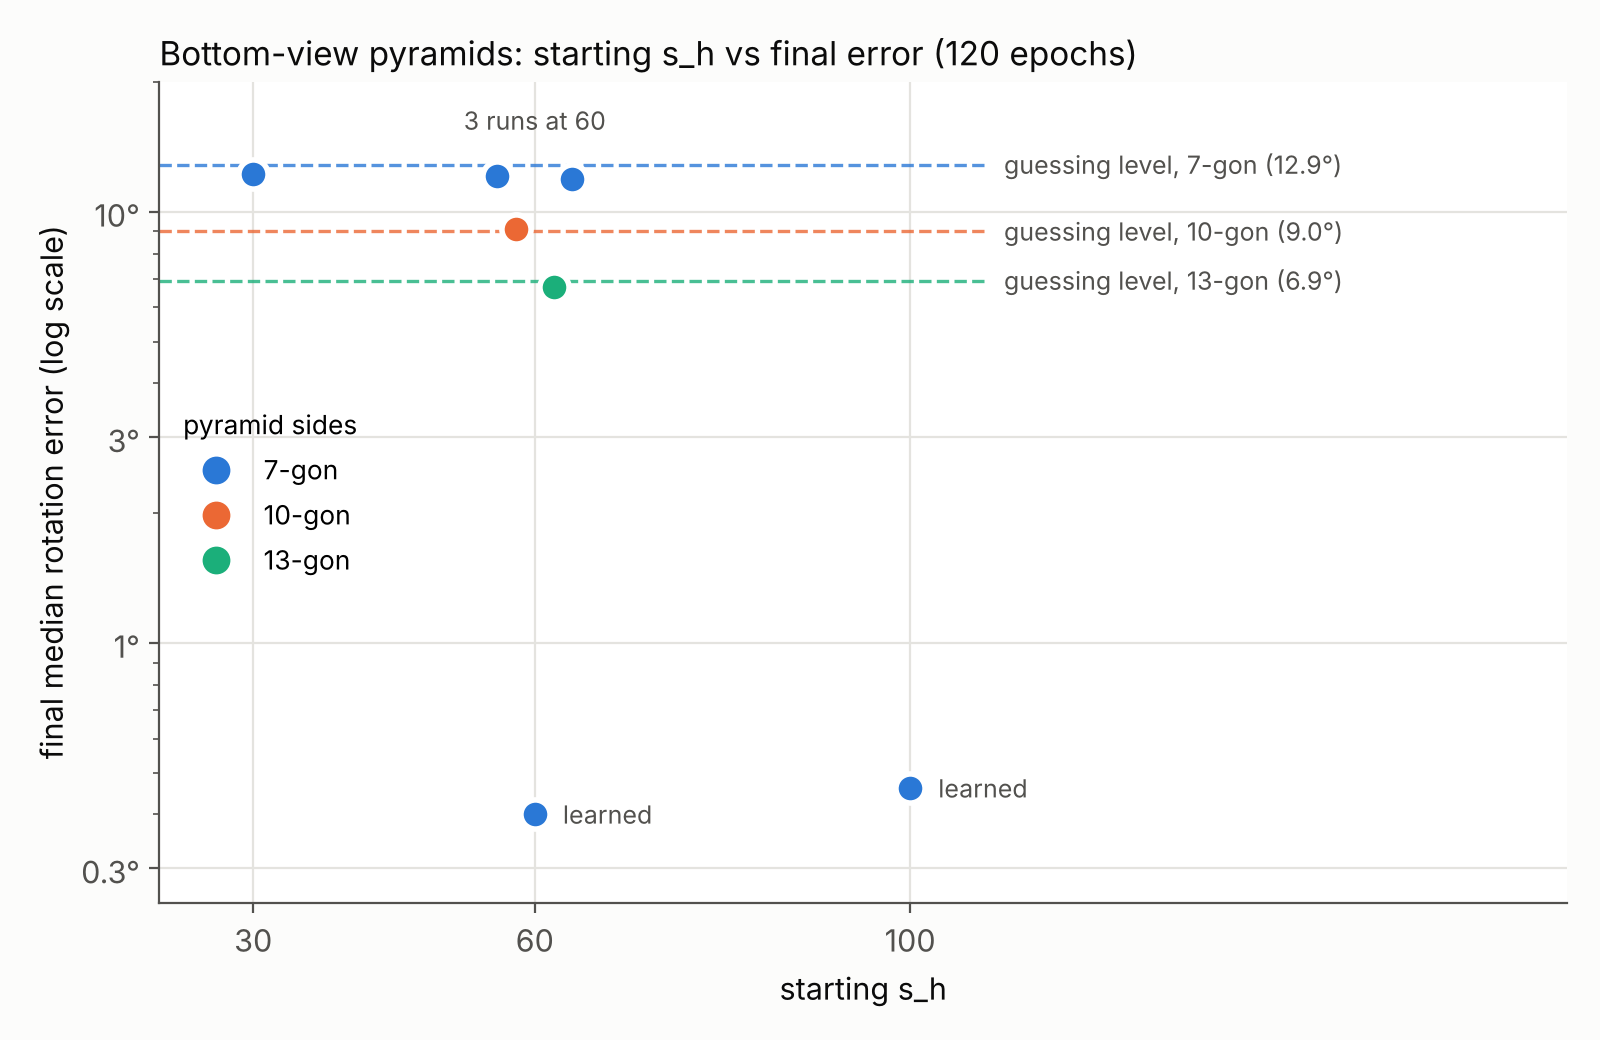
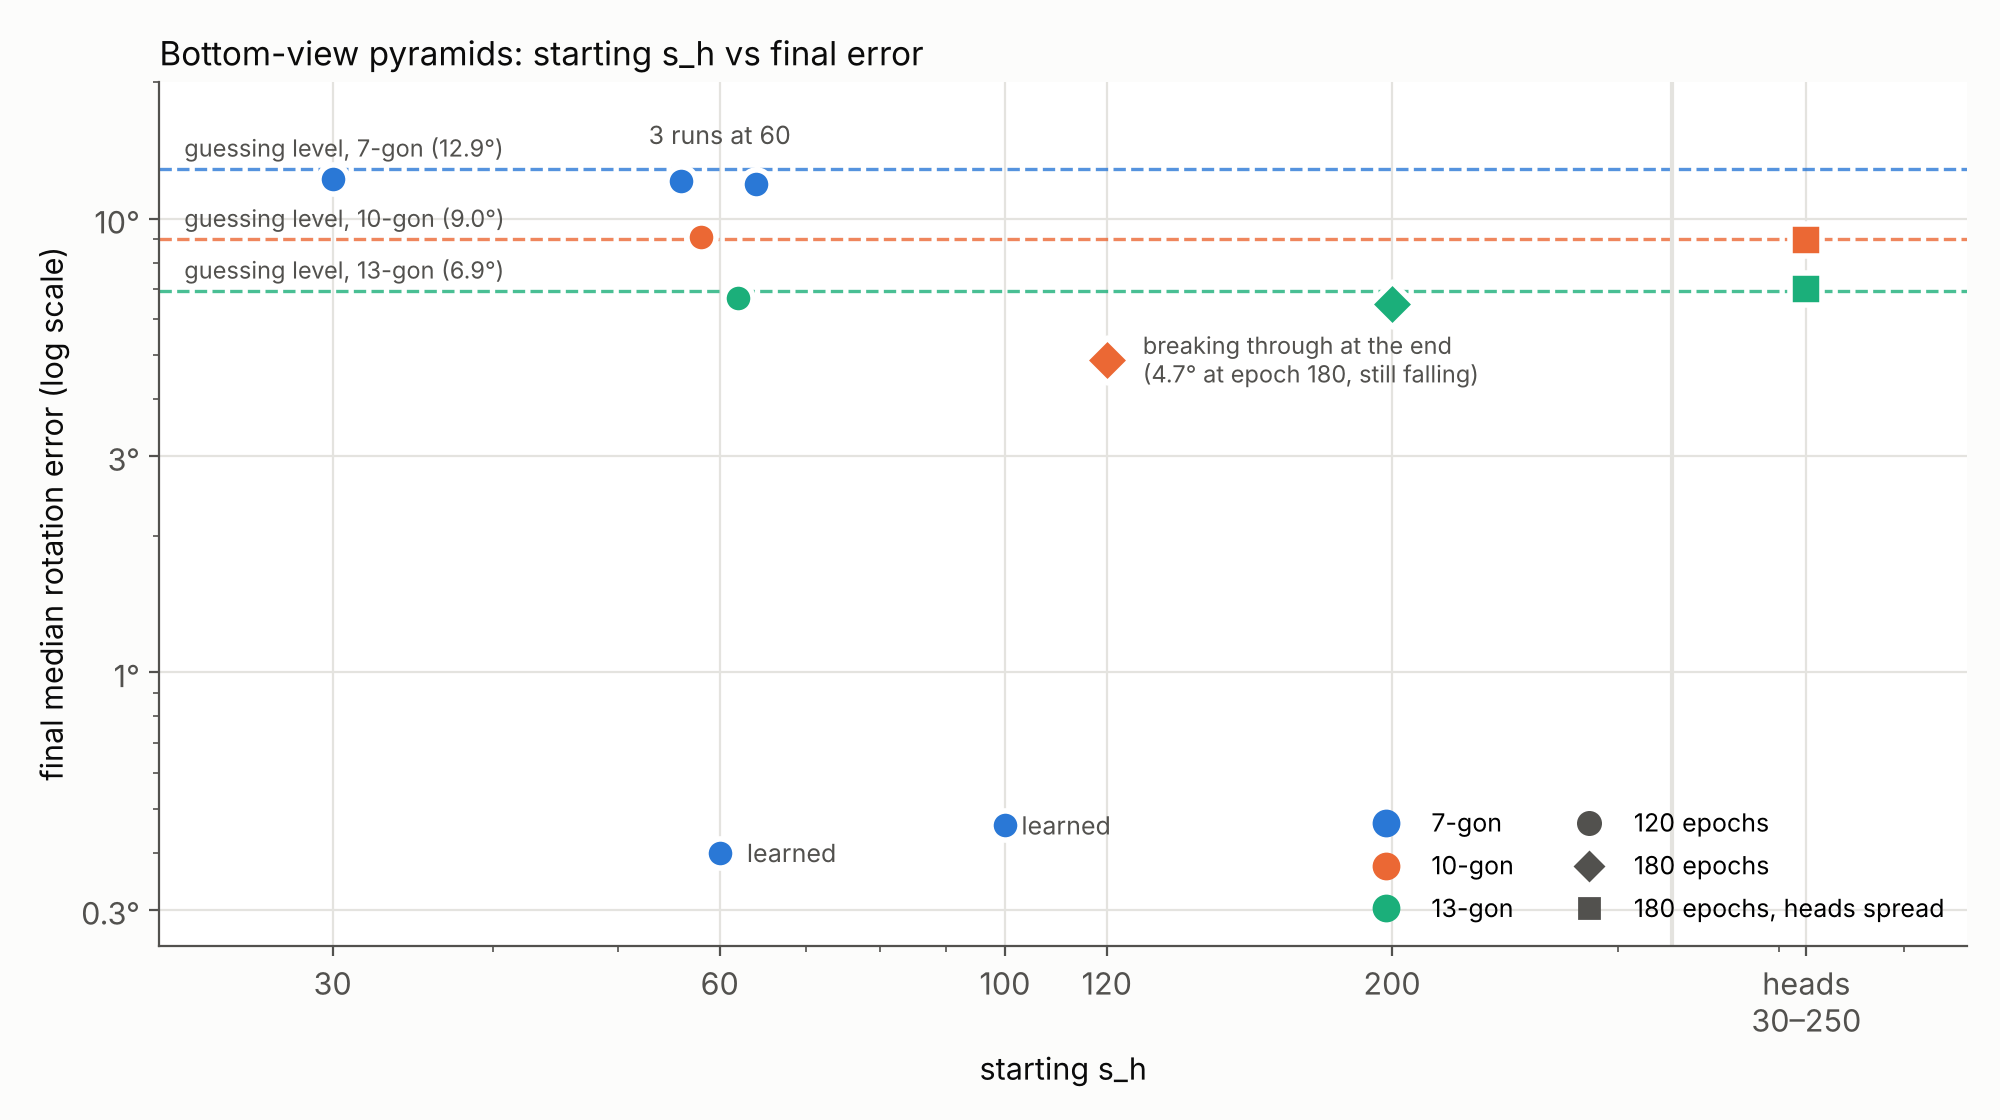
Report: 10-gon at start s_h 120 breaks through at epochs 175-180; 13-gon and spread runs do not
Claude-Session: https://claude.ai/code/session_01CjS2ebrnSKXBxxPg7a3mE2

diff --git a/pose3d/probes/cosdir_interp/plot_s_h_vs_mre.py b/pose3d/probes/cosdir_interp/plot_s_h_vs_mre.py
@@ -1,5 +1,5 @@
 """Final median rotation error against the start value of s_h, per pyramid (bottom views; 14x14 map, 368 sphere points,
-constant rate, 120 epochs, final 32-sample evaluation). Dashed lines: the error of a model that knows everything but the
+constant rate, 120 or 180 epochs, final 32-sample evaluation). Dashed lines: the error of a model that knows everything but the
 turn (90/n degrees). Writes ../../reports/figures/cosdir_s_h_vs_mre.png."""
 import os, matplotlib
 matplotlib.use("Agg"); import matplotlib.pyplot as plt, matplotlib.ticker as mt
@@ -7,28 +7,41 @@ C = {7: "#2a78d6", 10: "#eb6834", 13: "#1baf7a"}
 INK, INK2, GRID = "#0b0b0b", "#52514e", "#e4e3df"
 # (sides, start s_h, final median error in degrees)
 RUNS = [(7, 30, 12.21), (7, 60, 0.40), (7, 60, 12.12), (7, 60, 11.91), (7, 100, 0.46), (10, 60, 9.11), (13, 60, 6.68)]
+# 180-epoch runs (2026-11-21): one shared start value, and heads log-spaced from 30 to 250 in every block
+LONG = [(10, 120, 4.89), (13, 200, 6.49)]
+SPREAD = [(10, 8.99), (13, 6.98)]
 JIT = {(7, 60, 12.12): -4, (7, 60, 11.91): 4, (10, 60, 9.11): -2, (13, 60, 6.68): 2}
 plt.rcParams.update({"font.size": 11, "axes.edgecolor": INK2, "xtick.color": INK2, "ytick.color": INK2, "axes.labelcolor": INK})
-fig, ax = plt.subplots(figsize=(8, 5.2))
+fig, ax = plt.subplots(figsize=(10, 5.6))
 for n in (7, 10, 13):
-    ax.hlines(90 / n, 20, 108, color=C[n], lw=1.2, ls="--", alpha=0.8)
-    ax.text(110, 90 / n, f"guessing level, {n}-gon ({90 / n:.1f}°)", va="center", fontsize=9, color=INK2)
+    ax.hlines(90 / n, 20, 560, color=C[n], lw=1.2, ls="--", alpha=0.8)
+    ax.text(23, 90 / n * 1.035, f"guessing level, {n}-gon ({90 / n:.1f}°)", va="bottom", fontsize=8.5, color=INK2)
 for n, s, e in RUNS:
     ax.scatter(s + JIT.get((n, s, e), 0), e, s=110, color=C[n], edgecolor="white", linewidth=2, zorder=3)
+for n, s, e in LONG:
+    ax.scatter(s, e, s=130, marker="D", color=C[n], edgecolor="white", linewidth=2, zorder=3)
+ax.text(128, 4.89, "breaking through at the end\n(4.7° at epoch 180, still falling)", va="center", fontsize=8.5, color=INK2)
+XS = 420   # separate column for the spread runs (no single starting value)
+ax.axvline(330, color=GRID, lw=1.5)
+for n, e in SPREAD:
+    ax.scatter(XS, e, s=130, marker="s", color=C[n], edgecolor="white", linewidth=2, zorder=3)
 ax.text(63, 0.40, "learned", va="center", fontsize=9, color=INK2)
 ax.text(103, 0.46, "learned", va="center", fontsize=9, color=INK2)
-ax.text(60, 15.5, "3 runs at 60", ha="center", fontsize=9, color=INK2)
+ax.text(60, 14.6, "3 runs at 60", ha="center", fontsize=9, color=INK2)
 ax.set_yscale("log"); ax.set_ylim(0.25, 20)
 ax.yaxis.set_major_formatter(mt.FuncFormatter(lambda v, _: f"{v:g}°")); ax.set_yticks([0.3, 1, 3, 10])
 ax.yaxis.set_minor_formatter(mt.NullFormatter())
-ax.set_xlim(20, 170); ax.set_xticks([30, 60, 100])
+ax.set_xscale("log"); ax.set_xlim(22, 560); ax.set_xticks([30, 60, 100, 120, 200, XS])
+ax.xaxis.set_major_formatter(mt.FuncFormatter(lambda v, _: "heads\n30–250" if v == XS else f"{v:g}")); ax.xaxis.set_minor_formatter(mt.NullFormatter())
 ax.set_xlabel("starting s_h"); ax.set_ylabel("final median rotation error (log scale)")
 ax.grid(color=GRID, lw=0.8); ax.set_axisbelow(True)
 for sp in ("top", "right"): ax.spines[sp].set_visible(False)
 from matplotlib.lines import Line2D
-ax.legend(handles=[Line2D([], [], marker="o", ls="", color=C[n], ms=9, label=f"{n}-gon") for n in (7, 10, 13)],
-          title="pyramid sides", loc="center left", frameon=False, fontsize=9.5, title_fontsize=9.5)
-ax.set_title("Bottom-view pyramids: starting s_h vs final error (120 epochs)", loc="left", color=INK, fontsize=12)
+ax.legend(handles=[Line2D([], [], marker="o", ls="", color=C[n], ms=9, label=f"{n}-gon") for n in (7, 10, 13)]
+          + [Line2D([], [], marker="o", ls="", color=INK2, ms=8, label="120 epochs"), Line2D([], [], marker="D", ls="", color=INK2, ms=7, label="180 epochs"),
+             Line2D([], [], marker="s", ls="", color=INK2, ms=7, label="180 epochs, heads spread")],
+          loc="lower right", frameon=False, fontsize=9, ncol=2)
+ax.set_title("Bottom-view pyramids: starting s_h vs final error", loc="left", color=INK, fontsize=12)
 fig.tight_layout()
 out = os.path.join(os.path.dirname(os.path.abspath(__file__)), "../../reports/figures/cosdir_s_h_vs_mre.png")
 fig.savefig(out, dpi=200, facecolor="#fcfcfb"); print(out)

diff --git a/pose3d/probes/cosdir_interp/plot_sweep_curves.py b/pose3d/probes/cosdir_interp/plot_sweep_curves.py
@@ -1,0 +1,21 @@
+"""Median error by epoch of the 180-epoch s_h runs on the 10- and 13-gon bottom views (results/bottom10_13_sweep_mre_by_epoch.json).
+Writes ../../reports/figures/cosdir_bottom10_13_sweep_curves.png."""
+import json, os, matplotlib
+matplotlib.use("Agg"); import matplotlib.pyplot as plt, matplotlib.ticker as mt
+R = os.path.join(os.path.dirname(os.path.abspath(__file__)), "results")
+d = json.load(open(f"{R}/bottom10_13_sweep_mre_by_epoch.json"))
+C = {"10": "#eb6834", "13": "#1baf7a"}; INK2, GRID = "#52514e", "#e4e3df"
+fig, ax = plt.subplots(1, 2, figsize=(12, 4.2), sharey=True)
+for k, n in enumerate(("10", "13")):
+    a = ax[k]
+    for lab, y in d.items():
+        if not lab.startswith(n): continue
+        a.plot(range(1, len(y) + 1), y, color=C[n], lw=1.8, ls="-" if "s_h" in lab else ":", label=lab.split(", ")[1])
+    a.axhline(90 / int(n), color=INK2, lw=1, ls="--"); a.text(3, 90 / int(n) * 1.06, f"guessing level {90 / int(n):.1f}°", fontsize=8.5, color=INK2)
+    a.set_yscale("log"); a.yaxis.set_major_formatter(mt.FuncFormatter(lambda v, _: f"{v:g}°")); a.set_yticks([3, 5, 10, 30, 70])
+    a.yaxis.set_minor_formatter(mt.NullFormatter()); a.grid(color=GRID, lw=0.8); a.set_axisbelow(True)
+    a.set_xlabel("epoch"); a.set_title(f"{n}-gon bottom view", loc="left", fontsize=11); a.legend(frameon=False, fontsize=9)
+    for sp in ("top", "right"): a.spines[sp].set_visible(False)
+ax[0].set_ylabel("median rotation error (log scale)")
+fig.tight_layout()
+p = os.path.join(os.path.dirname(os.path.abspath(__file__)), "../../reports/figures/cosdir_bottom10_13_sweep_curves.png"); fig.savefig(p, dpi=170, facecolor="#fcfcfb"); print(p)

diff --git a/pose3d/reports/cosdir_bottom_view.md b/pose3d/reports/cosdir_bottom_view.md
@@ -275,7 +275,7 @@ about 50 for the 10-gon and 83 for the 13-gon, that is start temperatures of abo
 13-gon probably also needs the next grid density (nside 16). This is a hypothesis from one seed per setting; the
 10-gon at start temperature about 110 is the direct test.
 
-Scheduled for 2026-11-21 00:05 UTC (four 180-epoch runs, about 10.4 h each on 2xT4, cap on s_h raised to 1000): the
+Run on 2026-11-20/21 (results in the section on the higher start temperature below; four 180-epoch runs, about 10.4 h each on 2xT4, cap on s_h raised to 1000): the
 10-gon at start 120 and the 13-gon at start 200, and each with the 8 heads of every block started at log-spaced
 temperatures from 30 to 250 (wide heads for the low degrees, sharp ones for degree n). nside 16 costs about 4x per
 step (CPU timing), 25 h per run, so it was not scheduled. Smoke tests (3 epochs): `pepeschneyne/bottom13-s200-smoke-e3-t4x2`
@@ -310,6 +310,39 @@ a model that knows everything but the turn. The 7-gon learned at 60 (one of thre
 were only run at 60. Not shown: the 60-epoch run with log s_h moving 30x faster (7-gon, start 30: 11.69 degrees).
 Runs at 120 (10-gon) and 200 (13-gon), and with heads spread from 30 to 250, are scheduled for 2026-11-21.
 Why the threshold moves with n: `figures/cosdir_s_h_scaling.png` (how much of degree n an attention window passes).
+
+## Higher start temperature on the 10-gon and 13-gon (180 epochs)
+
+Four runs of the 14x14 setup (2026-11-20/21; 368 sphere points, constant rate, 180 epochs, cap on s_h raised to 1000,
+runners from `notebooks/make_sh_trace_variant.py`, 188 to 200 s per epoch on 2xT4). The single start values were chosen
+so that the windows pass degree n about as much as start 60 passed degree 7 (see the section on why the 10- and 13-gon
+are not learned); the spread runs start the 8 heads of every block at log-spaced values 30, 41, 55, 74, 101, 136, 185, 250.
+
+| kernel | pyramid | start s_h | median error, epochs 20 to 170 | last epochs | final evaluation (32 samples) |
+|---|---|---|---|---|---|
+| `elizavetak0zlova/bottom10-s120-cap1000-e180-seed0-t4x2` | 10-gon | 120 | 8.6 to 9.6 | 175 to 180: 8.3, 7.8, 6.9, 6.1, 4.7 | 4.89, acc@15 0.994 |
+| `elizavetak0zlova/bottom10-spread30-250-cap1000-e180-t4x2` | 10-gon | 30 to 250 | 8.7 to 9.5 | 9.0 | 8.99, acc@15 0.837 |
+| `ainursarimov/bottom13-s200-cap1000-e180-seed0-t4x2` | 13-gon | 200 | 6.7 to 7.3 | 6.9 | 6.49, acc@15 1.0 |
+| `ainursarimov/bottom13-spread30-250-cap1000-e180-t4x2` | 13-gon | 30 to 250 | 6.7 to 7.3 | 7.0 | 6.98, acc@15 1.0 |
+
+![starting s_h vs final error](figures/cosdir_s_h_vs_mre.png)
+
+![10- and 13-gon, error by epoch](figures/cosdir_bottom10_13_sweep_curves.png)
+
+* **The 10-gon at start 120 leaves the plateau at the very end.** After 155 epochs at the guessed-turn level it falls
+  from about 8.6 degrees at epoch 170 to 4.7 at epoch 180, still falling when the run stops (final evaluation 4.89
+  degrees, guessing level 9.0). This is the first 10-gon run below the guessing level; at start 60 it stayed there for
+  120 epochs. Whether it reaches the 7-gon's sub-degree level is not known from this run.
+* **The 13-gon at start 200 does not leave it in 180 epochs** (final evaluation 6.49 against 6.9).
+* **Spreading the heads from 30 to 250 does not help either pyramid** in 180 epochs; both stay at the guessed turn.
+  Only 1 to 2 heads per block are sharp enough for degree 10 or 13, which may be too few.
+* **s_h at the 10-gon's breakthrough: no jump.** The median of the 32 values is 104.6 at epoch 170 and 104.1 at 180
+  (from 120 at the start, weight decay). The largest per-epoch change of log s_h rises from 0.0025 on the plateau to
+  0.009 to 0.012 in epochs 176 to 180: a few heads move slightly while the error falls, as at the 7-gon's transitions.
+  The first transition (epochs 16 to 18, onto the plateau) again has the largest changes (0.027). In the spread runs
+  the heads keep their spread (final values 28 to 222).
+* One run per setting, and the 7-gon showed that the breakthrough epoch varies between identical runs, so "the 13-gon
+  does not learn at 200" means "not in 180 epochs, in this run".
 
 ## s_h epoch by epoch on the 7-gon: not the cause of the breakthrough, and the breakthrough is not reliable
 
